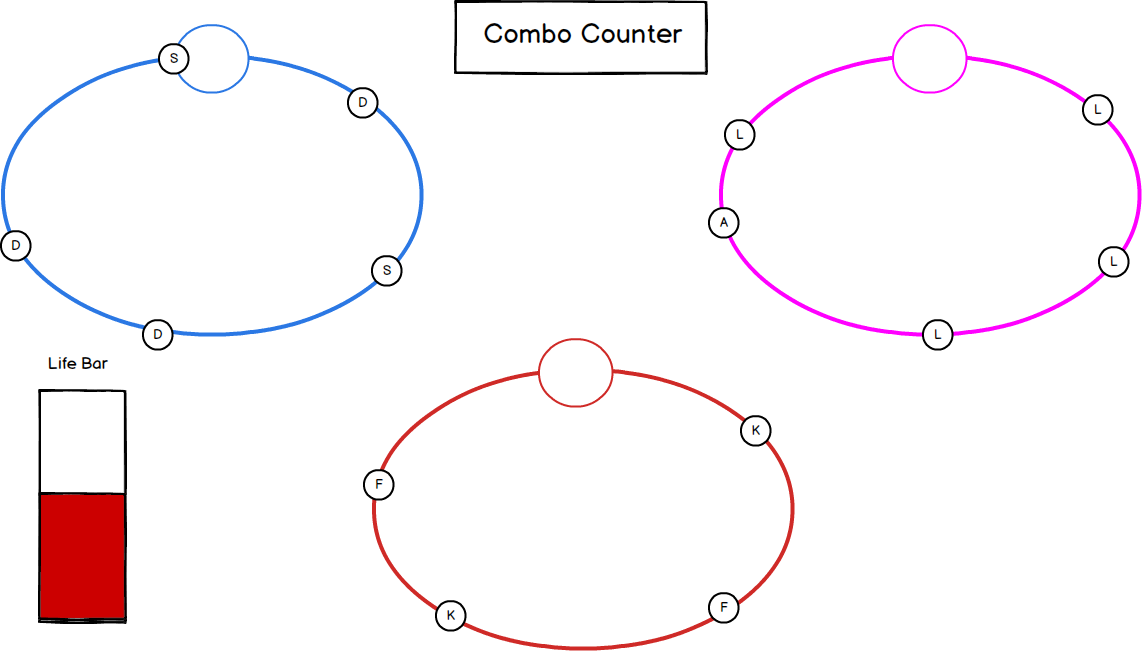
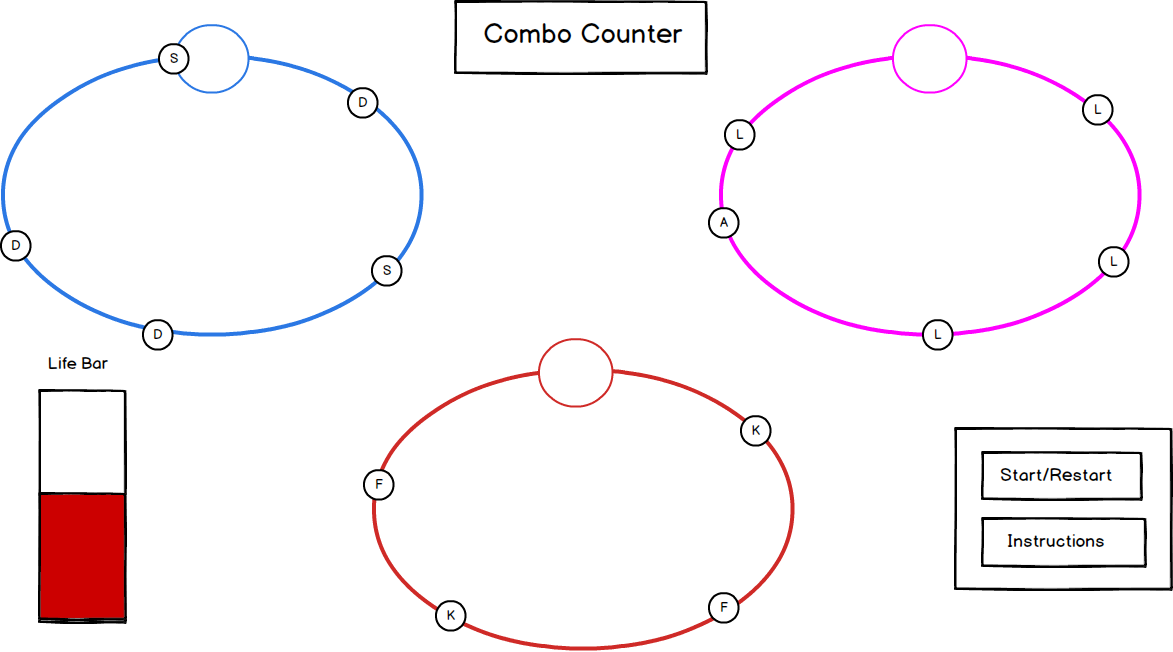
Update Readme and wireframe

diff --git a/README.md b/README.md
@@ -2,7 +2,7 @@
 
 ### Background
 
-Typing Multitasker is a typing game that utilizes rhythm, timing, and multi-tasking inspired by  **Gyroshi**. Typing MultiTasker is a 1-player game that plays out on three circles that rotate with letters. Once the letter reaches the top of the circle, the user will need to hit the correct key in order to raise their life bar. The game starts off with one circle of rotating letters, but as the game progresses other circles will  appear and rotating their own letters.
+Typing Multitasker is a typing game that utilizes rhythm, timing, and multi-tasking inspired by  **Gyroshi**. A single player game that plays out on three circles which rotate with a pair of letters. Once the letter reaches the top of the circle, the user will need to hit the correct key in order to raise their life bar. The game starts off with one circle of rotating letters, but as the game progresses other circles will  appear and rotating their own letters. In additional to more circles appearing, the speed at which the letters revolve around the circle will also increase.
 
 ### Functionality & MVP  
 
@@ -10,6 +10,7 @@ Typing Multitasker is a typing game that utilizes rhythm, timing, and multi-task
 - [ ] Letters will rotate inside the circle and disappear after one rotation.
 - [ ] A combo meter to show how many letters that are hit in a row.
 - [ ] Life bar that will end the game if a certain number of incorrect keys are hit.
+- [ ] Start and Restart button for when the player loses
 - [ ] A production Readme
 
 ### Wireframes
@@ -22,11 +23,11 @@ This app will consist of a single screen with game board, game controls, and nav
 
 This project will be implemented with the following technologies:
 
-- Vanilla JavaScript and jQuery
-- HTML5 Canvas
-- Webpack
-- Babel
-- Easel?
+- Vanilla JavaScript - For the game logic, ie switch statements for when correct/incorrect keys are pressed/
+- HTML5 Canvas & easel - for creating animations, backgrounds, and rendering shapes
+- Webpack - to bundle up all the code and allow for import/export
+- Babel - for compiling javascript.
+- yuki-createjs - to allow easal to work with webpack bundler
 
 In addition to the webpack entry file, there will be three scripts involved in this project:
 
@@ -48,3 +49,5 @@ In addition to the webpack entry file, there will be three scripts involved in t
 
 - [ ] Animations/Sounds in the background when letters clicked correctly
 - [ ] The input circle moves along the outer circle.
+- [ ] The outer circles also start moving.
+- [ ] Music for when certain combo lengths are reached.
